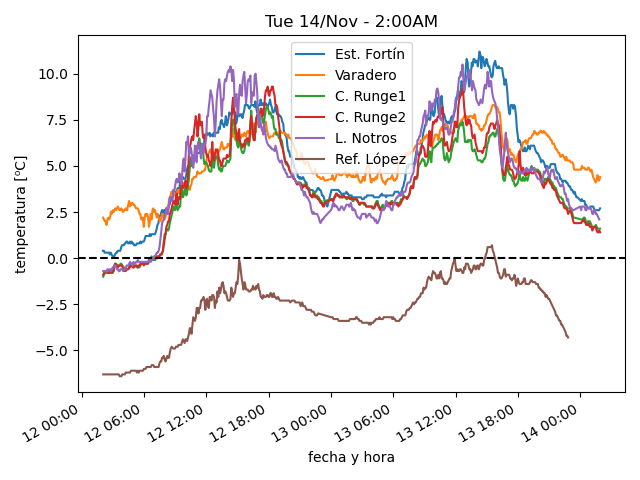
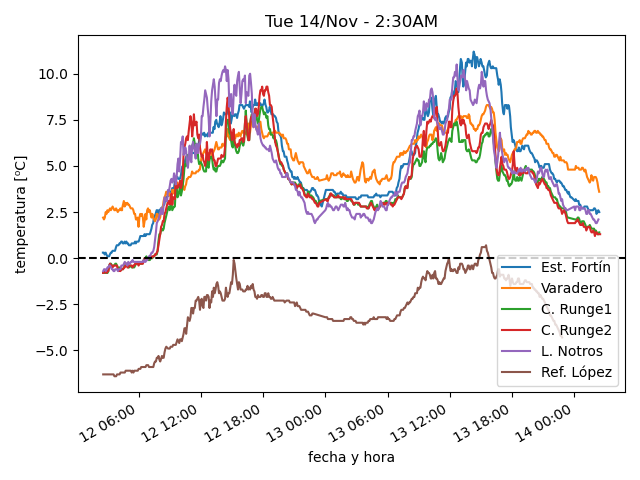
actualiza datos

diff --git a/estaciones/estacion1.html b/estaciones/estacion1.html
@@ -18,32 +18,32 @@
     </tr>
     <tr>
      <td class="stats_data">
-      1:54AM
+      2:24AM
      </td>
     </tr>
     <tr>
      <td class="stats_data">
-      2.7⁰C
+      2.5⁰C
      </td>
     </tr>
     <tr>
      <td class="stats_data">
-      -3.1⁰C
+      -3.4⁰C
      </td>
     </tr>
     <tr>
      <td class="stats_data">
-      65.7%
+      65.0%
      </td>
     </tr>
     <tr>
      <td class="stats_data">
-      1014.9hPa
+      1014.56hPa
      </td>
     </tr>
     <tr>
      <td class="stats_data">
-      21.5/33.8 km/hr WNW
+      14.5/24.1 km/hr W
      </td>
     </tr>
     <tr>

diff --git a/estaciones/estacion4.html b/estaciones/estacion4.html
@@ -18,32 +18,32 @@
     </tr>
     <tr>
      <td class="stats_data">
-      1:54AM
+      2:29AM
      </td>
     </tr>
     <tr>
      <td class="stats_data">
-      1.4⁰C
+      1.3⁰C
      </td>
     </tr>
     <tr>
      <td class="stats_data">
-      -2.6⁰C
+      -3.1⁰C
      </td>
     </tr>
     <tr>
      <td class="stats_data">
-      74.4%
+      72.8%
      </td>
     </tr>
     <tr>
      <td class="stats_data">
-      1013.24hPa
+      1013.14hPa
      </td>
     </tr>
     <tr>
      <td class="stats_data">
-      0.7/1.3 km/hr SSE
+      1.5/2.9 km/hr SW
      </td>
     </tr>
     <tr>

diff --git a/estaciones/estacion2.html b/estaciones/estacion2.html
@@ -18,22 +18,22 @@
     </tr>
     <tr>
      <td class="stats_data">
-      1:54AM
+      2:24AM
      </td>
     </tr>
     <tr>
      <td class="stats_data">
-      4.4⁰C
+      3.6⁰C
      </td>
     </tr>
     <tr>
      <td class="stats_data">
-      0.7⁰C
+      -0.4⁰C
      </td>
     </tr>
     <tr>
      <td class="stats_data">
-      77.0%
+      75.1%
      </td>
     </tr>
     <tr>
@@ -43,7 +43,7 @@
     </tr>
     <tr>
      <td class="stats_data">
-      31.6/37.9 km/hr NW
+      19.8/27.1 km/hr WNW
      </td>
     </tr>
     <tr>

diff --git a/estaciones/estacion5.html b/estaciones/estacion5.html
@@ -18,7 +18,7 @@
     </tr>
     <tr>
      <td class="stats_data">
-      1:50AM
+      2:20AM
      </td>
     </tr>
     <tr>
@@ -28,22 +28,22 @@
     </tr>
     <tr>
      <td class="stats_data">
-      -2.2⁰C
+      -2.6⁰C
      </td>
     </tr>
     <tr>
      <td class="stats_data">
-      73.0%
+      71.0%
      </td>
     </tr>
     <tr>
      <td class="stats_data">
-      1018.08hPa
+      1018.05hPa
      </td>
     </tr>
     <tr>
      <td class="stats_data">
-      0.0/2.6 km/hr N
+      0.0/0.0 km/hr N
      </td>
     </tr>
     <tr>

diff --git a/estaciones/estacion3.html b/estaciones/estacion3.html
@@ -18,22 +18,22 @@
     </tr>
     <tr>
      <td class="stats_data">
-      1:54AM
+      2:24AM
      </td>
     </tr>
     <tr>
      <td class="stats_data">
-      1.6⁰C
+      1.4⁰C
      </td>
     </tr>
     <tr>
      <td class="stats_data">
-      -1.9⁰C
+      -2.6⁰C
      </td>
     </tr>
     <tr>
      <td class="stats_data">
-      77.4%
+      75.2%
      </td>
     </tr>
     <tr>
@@ -43,7 +43,7 @@
     </tr>
     <tr>
      <td class="stats_data">
-      3.0/4.3 km/hr W
+      5.7/7.8 km/hr SW
      </td>
     </tr>
     <tr>
